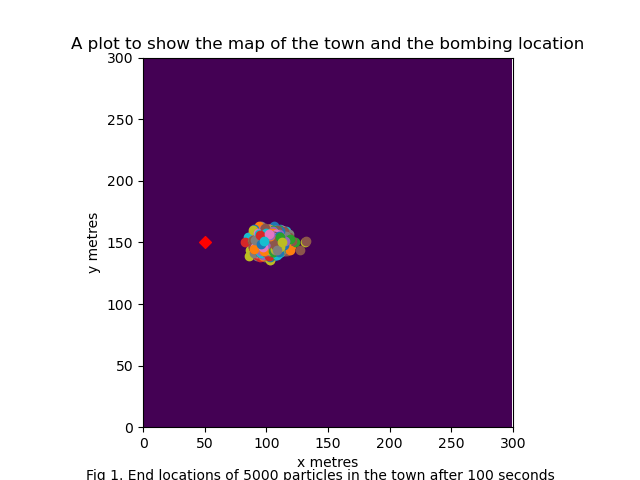
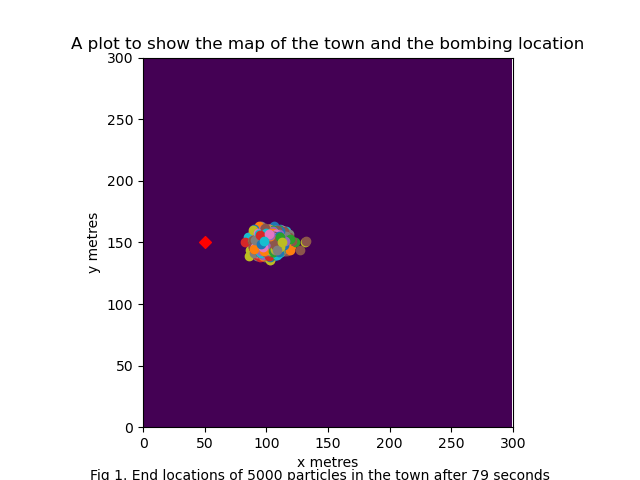
Calculated how many seconds/iterations took for all particles to reach ground

Changed region(s): [[0.125, 0.9688, 0.875, 1.0]]

diff --git a/model_spread.py b/model_spread.py
@@ -15,6 +15,7 @@ import matplotlib.pyplot as plt #for plotting spread
 import particle_framework #the particle class created 
 import pandas as pd #for density map data frame
 import seaborn as sns #for creating density map 
+import time
 
 #'fix' the random numbers so outputs stay constant, can change the seed arg
 random.seed(0)
@@ -68,7 +69,7 @@ plt.imshow(town)
 # Major model parameters
 # TODO ALLOW ADJUSTMENT FROM CMD PROMPT OR JUPYTER NOTEBOOK
 num_of_particles = 5000
-num_of_iterations = 100 #i.e after 700 seconds, 11mins
+#FIXME foor timings 700 seconds, 11mins
 
 #Chances/probability of wind blowing particle in different directions
 p_east = 75  #75 means 75% chance particle moves east each second/iteration 
@@ -103,34 +104,32 @@ for i in range(num_of_particles):
 
 print ("Spreading bomb particles--")
 # Particles spread across town either NESW directions and rise/fall 
-
-# for j in range (num_of_iterations):   #moves the coords num of iteration times
-#     #randomly shuffle particles list each iternation to reduce model artifacts
-#     random.shuffle (particles) 
-#     #methods in Particles class act on every element in particles list
-#     for i in range (num_of_particles): 
-#         particles[i].spread(p_east, p_west, p_north, p_south) #NESW movement
-#         particles[i].turbulance(p_rise, p_same, p_fall) #up/down movement
-
-
+start = time.perf_counter() #start clock to assess efficiency 
     
-#methods in Particles class act on every element in particles list
+#Methods in Particles class act on every element in particles list
 for i in range (num_of_particles): 
+    
     #only run methods when the height of the particle is not 0 ie. not on ground
+    seconds_count = 0 #to count the no of seconds/times while loop runs
     while particles[i].height != 0:
+        seconds_count += 1 #increment by 1 every loop iteration, 1 iter = 1 sec
         particles[i].spread(p_east, p_west, p_north, p_south) #NESW movement
         particles[i].turbulance(p_rise, p_same, p_fall) #up/down movement
     #print (particles[i].height) #TEST to see turbulance method working
 #print("Particles after spreading:") #comment out for large no's of particles
 #print (particles) # 2D list/array of particles at their end locations, TEST 
+
+end = time.perf_counter() #end the timer for the calculating distances loops
 print ("All particles have now settled on the ground")
+print ("Time taken to calculate particles reaching ground = " + str (end - start))
+print ("Time taken for particles to actually hit the ground in the town = "+str(seconds_count)+" seconds")
 
 # Plotting all particles after spreading on a scatter plot
 for i in range (num_of_particles):
     #ith obj from particles list, using Particles Class to specify x, y coords
     plt.scatter (particles[i].x, particles[i].y) 
 #figure caption
-txt= "Fig 1. End locations of "+str(num_of_particles)+" particles in the town after "+str(num_of_iterations)+" seconds"
+txt= "Fig 1. End locations of "+str(num_of_particles)+" particles in the town after "+str(seconds_count)+" seconds"
 plt.figtext(0.5, 0.001, txt, wrap=True, horizontalalignment='center', fontsize=10)
 plt.show() 
 
@@ -140,6 +139,8 @@ f = open("end_locations.txt",'w', newline='') #builtin open func to write end co
 for line in particles: #for every line in particles list
     f.write (repr(line)) #write as a string in the text file
 f.close() #file closed after writting the coords
+
+
 
 
 # Creating separate lists for all x & y end locations for density plot
